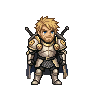
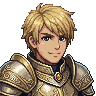
art(portrait): 罗恩重做为头肩特写(修全身照) + v190
- 罗恩原图变成全身照(风格图全身盖过半身文字) → 强制"extreme close-up bust, 头肩特写, 裁到胸口, 非全身"重生成
- 候选库同步更新 loen_0..3
- ASSET_VER 189→190

Claude-Session: https://claude.ai/code/session_01QGRynvBqtept4T7sdccom5

diff --git a/index.html b/index.html
@@ -5,39 +5,39 @@
   <meta name="viewport" content="width=device-width, initial-scale=1.0, maximum-scale=1.0, user-scalable=no, viewport-fit=cover">
   <title>棕色尘埃 2 · Brown Dust 2</title>
   <!-- PWA / 添加到主屏幕（iOS 全屏关键） -->
-  <link rel="manifest" href="manifest.webmanifest?v=189">
+  <link rel="manifest" href="manifest.webmanifest?v=190">
   <meta name="theme-color" content="#1a1422">
   <meta name="mobile-web-app-capable" content="yes">
   <meta name="apple-mobile-web-app-capable" content="yes">
   <meta name="apple-mobile-web-app-status-bar-style" content="black-translucent">
   <meta name="apple-mobile-web-app-title" content="棕色尘埃2">
-  <link rel="apple-touch-icon" href="icons/apple-touch-icon.png?v=189">
-  <link rel="icon" type="image/png" href="icons/icon-192.png?v=189">
-  <link rel="stylesheet" href="css/style.css?v=189">
+  <link rel="apple-touch-icon" href="icons/apple-touch-icon.png?v=190">
+  <link rel="icon" type="image/png" href="icons/icon-192.png?v=190">
+  <link rel="stylesheet" href="css/style.css?v=190">
 </head>
 <body>
   <div id="app">
     <!-- 顶部栏：玩家信息 + 资源 + 系统 -->
     <header id="topbar">
       <button id="topbar-profile" class="profile-chip" title="玩家资料">
-        <span class="pc-avatar"><img src="art/01_splash/lecliss_avatar.png?v=189" alt="" onerror="this.outerHTML='🎖'"></span>
+        <span class="pc-avatar"><img src="art/01_splash/lecliss_avatar.png?v=190" alt="" onerror="this.outerHTML='🎖'"></span>
         <span class="pc-info">
           <span class="pc-name" id="pc-name">指挥官</span>
           <span class="pc-sub">Lv.<span id="pc-lv">1</span> · ⚔<span id="pc-pow">0</span></span>
         </span>
       </button>
       <div class="resources">
-        <div class="res" title="金币"><span class="res-icon"><img class="px-ico-sm" src="art/05_pixellab/ui/icons/coin.png?v=189" alt="金"></span><span id="res-gold">0</span></div>
-        <div class="res" title="宝石"><span class="res-icon"><img class="px-ico-sm" src="art/05_pixellab/ui/icons/gem.png?v=189" alt="钻"></span><span id="res-gem">0</span></div>
-        <div class="res" title="觉醒石"><span class="res-icon"><img class="px-ico-sm" src="art/05_pixellab/ui/icons/awaken.png?v=189" alt="石"></span><span id="res-stone">0</span></div>
-        <div class="res" title="体力"><span class="res-icon"><img class="px-ico-sm" src="art/05_pixellab/ui/icons/stamina.png?v=189" alt="力"></span><span id="res-stam">0</span></div>
+        <div class="res" title="金币"><span class="res-icon"><img class="px-ico-sm" src="art/05_pixellab/ui/icons/coin.png?v=190" alt="金"></span><span id="res-gold">0</span></div>
+        <div class="res" title="宝石"><span class="res-icon"><img class="px-ico-sm" src="art/05_pixellab/ui/icons/gem.png?v=190" alt="钻"></span><span id="res-gem">0</span></div>
+        <div class="res" title="觉醒石"><span class="res-icon"><img class="px-ico-sm" src="art/05_pixellab/ui/icons/awaken.png?v=190" alt="石"></span><span id="res-stone">0</span></div>
+        <div class="res" title="体力"><span class="res-icon"><img class="px-ico-sm" src="art/05_pixellab/ui/icons/stamina.png?v=190" alt="力"></span><span id="res-stam">0</span></div>
       </div>
       <div class="topbar-sys">
-        <button id="btn-notice" class="ghost-btn" title="公告"><img class="px-ico-sys" src="art/05_pixellab/ui/icons/notice.png?v=189" alt="公告"></button>
-        <button id="btn-mail" class="ghost-btn" title="邮件"><span class="dot-wrap"><img class="px-ico-sys" src="art/05_pixellab/ui/icons/mail.png?v=189" alt="邮件"><span id="mail-dot" class="red-dot" style="display:none;"></span></span></button>
-        <button id="btn-settings" class="ghost-btn" title="设置"><img class="px-ico-sys" src="art/05_pixellab/ui/icons/settings.png?v=189" alt="设置"></button>
-        <button id="btn-fullscreen" class="ghost-btn" title="全屏"><img class="px-ico-sys" src="art/05_pixellab/ui/icons/fullscreen.png?v=189" alt="全屏"></button>
-        <button id="btn-mute" class="ghost-btn" title="音效开关"><img class="px-ico-sys" src="art/05_pixellab/ui/icons/sound.png?v=189" alt="音效"></button>
+        <button id="btn-notice" class="ghost-btn" title="公告"><img class="px-ico-sys" src="art/05_pixellab/ui/icons/notice.png?v=190" alt="公告"></button>
+        <button id="btn-mail" class="ghost-btn" title="邮件"><span class="dot-wrap"><img class="px-ico-sys" src="art/05_pixellab/ui/icons/mail.png?v=190" alt="邮件"><span id="mail-dot" class="red-dot" style="display:none;"></span></span></button>
+        <button id="btn-settings" class="ghost-btn" title="设置"><img class="px-ico-sys" src="art/05_pixellab/ui/icons/settings.png?v=190" alt="设置"></button>
+        <button id="btn-fullscreen" class="ghost-btn" title="全屏"><img class="px-ico-sys" src="art/05_pixellab/ui/icons/fullscreen.png?v=190" alt="全屏"></button>
+        <button id="btn-mute" class="ghost-btn" title="音效开关"><img class="px-ico-sys" src="art/05_pixellab/ui/icons/sound.png?v=190" alt="音效"></button>
         <button id="btn-reset" class="ghost-btn" title="重置存档" style="display:none;">↺</button>
       </div>
     </header>
@@ -70,20 +70,20 @@
     </div>
   </div>
 
-  <script>window.ASSET_VER = '189';</script>
-  <script src="js/audio.js?v=189"></script>
-  <script src="js/data.js?v=189"></script>
-  <script src="js/balance.js?v=189"></script>
-  <script src="js/budget.js?v=189"></script>
-  <script src="js/lore.js?v=189"></script>
-  <script src="js/gear.js?v=189"></script>
-  <script src="js/costumes.js?v=189"></script>
-  <script src="js/game.js?v=189"></script>
-  <script src="js/battle.js?v=189"></script>
-  <script src="js/ui.js?v=189"></script>
-  <script src="js/story.js?v=189"></script>
-  <script src="js/comic.js?v=189"></script>
-  <script src="js/world.js?v=189"></script>
-  <script src="js/main.js?v=189"></script>
+  <script>window.ASSET_VER = '190';</script>
+  <script src="js/audio.js?v=190"></script>
+  <script src="js/data.js?v=190"></script>
+  <script src="js/balance.js?v=190"></script>
+  <script src="js/budget.js?v=190"></script>
+  <script src="js/lore.js?v=190"></script>
+  <script src="js/gear.js?v=190"></script>
+  <script src="js/costumes.js?v=190"></script>
+  <script src="js/game.js?v=190"></script>
+  <script src="js/battle.js?v=190"></script>
+  <script src="js/ui.js?v=190"></script>
+  <script src="js/story.js?v=190"></script>
+  <script src="js/comic.js?v=190"></script>
+  <script src="js/world.js?v=190"></script>
+  <script src="js/main.js?v=190"></script>
 </body>
 </html>

diff --git a/game.html b/game.html
@@ -5,14 +5,14 @@
   <meta name="viewport" content="width=device-width, initial-scale=1.0, maximum-scale=1.0, user-scalable=no, viewport-fit=cover">
   <title>棕色尘埃 2 · Brown Dust 2</title>
   <!-- PWA / 添加到主屏幕（iOS 全屏关键） -->
-  <link rel="manifest" href="manifest.webmanifest?v=189">
+  <link rel="manifest" href="manifest.webmanifest?v=190">
   <meta name="theme-color" content="#1a1422">
   <meta name="mobile-web-app-capable" content="yes">
   <meta name="apple-mobile-web-app-capable" content="yes">
   <meta name="apple-mobile-web-app-status-bar-style" content="black-translucent">
   <meta name="apple-mobile-web-app-title" content="棕色尘埃2">
-  <link rel="apple-touch-icon" href="icons/apple-touch-icon.png?v=189">
-  <link rel="icon" type="image/png" href="icons/icon-192.png?v=189">
+  <link rel="apple-touch-icon" href="icons/apple-touch-icon.png?v=190">
+  <link rel="icon" type="image/png" href="icons/icon-192.png?v=190">
   <style>
 /* ============================================================
    棕色尘埃 2 风格 UI — 暗色奇幻风格
@@ -2423,24 +2423,24 @@ button.ac-circle:active { transform: scale(.92); }
     <!-- 顶部栏：玩家信息 + 资源 + 系统 -->
     <header id="topbar">
       <button id="topbar-profile" class="profile-chip" title="玩家资料">
-        <span class="pc-avatar"><img src="art/01_splash/lecliss_avatar.png?v=189" alt="" onerror="this.outerHTML='🎖'"></span>
+        <span class="pc-avatar"><img src="art/01_splash/lecliss_avatar.png?v=190" alt="" onerror="this.outerHTML='🎖'"></span>
         <span class="pc-info">
           <span class="pc-name" id="pc-name">指挥官</span>
           <span class="pc-sub">Lv.<span id="pc-lv">1</span> · ⚔<span id="pc-pow">0</span></span>
         </span>
       </button>
       <div class="resources">
-        <div class="res" title="金币"><span class="res-icon"><img class="px-ico-sm" src="art/05_pixellab/ui/icons/coin.png?v=189" alt="金"></span><span id="res-gold">0</span></div>
-        <div class="res" title="宝石"><span class="res-icon"><img class="px-ico-sm" src="art/05_pixellab/ui/icons/gem.png?v=189" alt="钻"></span><span id="res-gem">0</span></div>
-        <div class="res" title="觉醒石"><span class="res-icon"><img class="px-ico-sm" src="art/05_pixellab/ui/icons/awaken.png?v=189" alt="石"></span><span id="res-stone">0</span></div>
-        <div class="res" title="体力"><span class="res-icon"><img class="px-ico-sm" src="art/05_pixellab/ui/icons/stamina.png?v=189" alt="力"></span><span id="res-stam">0</span></div>
+        <div class="res" title="金币"><span class="res-icon"><img class="px-ico-sm" src="art/05_pixellab/ui/icons/coin.png?v=190" alt="金"></span><span id="res-gold">0</span></div>
+        <div class="res" title="宝石"><span class="res-icon"><img class="px-ico-sm" src="art/05_pixellab/ui/icons/gem.png?v=190" alt="钻"></span><span id="res-gem">0</span></div>
+        <div class="res" title="觉醒石"><span class="res-icon"><img class="px-ico-sm" src="art/05_pixellab/ui/icons/awaken.png?v=190" alt="石"></span><span id="res-stone">0</span></div>
+        <div class="res" title="体力"><span class="res-icon"><img class="px-ico-sm" src="art/05_pixellab/ui/icons/stamina.png?v=190" alt="力"></span><span id="res-stam">0</span></div>
       </div>
       <div class="topbar-sys">
-        <button id="btn-notice" class="ghost-btn" title="公告"><img class="px-ico-sys" src="art/05_pixellab/ui/icons/notice.png?v=189" alt="公告"></button>
-        <button id="btn-mail" class="ghost-btn" title="邮件"><span class="dot-wrap"><img class="px-ico-sys" src="art/05_pixellab/ui/icons/mail.png?v=189" alt="邮件"><span id="mail-dot" class="red-dot" style="display:none;"></span></span></button>
-        <button id="btn-settings" class="ghost-btn" title="设置"><img class="px-ico-sys" src="art/05_pixellab/ui/icons/settings.png?v=189" alt="设置"></button>
-        <button id="btn-fullscreen" class="ghost-btn" title="全屏"><img class="px-ico-sys" src="art/05_pixellab/ui/icons/fullscreen.png?v=189" alt="全屏"></button>
-        <button id="btn-mute" class="ghost-btn" title="音效开关"><img class="px-ico-sys" src="art/05_pixellab/ui/icons/sound.png?v=189" alt="音效"></button>
+        <button id="btn-notice" class="ghost-btn" title="公告"><img class="px-ico-sys" src="art/05_pixellab/ui/icons/notice.png?v=190" alt="公告"></button>
+        <button id="btn-mail" class="ghost-btn" title="邮件"><span class="dot-wrap"><img class="px-ico-sys" src="art/05_pixellab/ui/icons/mail.png?v=190" alt="邮件"><span id="mail-dot" class="red-dot" style="display:none;"></span></span></button>
+        <button id="btn-settings" class="ghost-btn" title="设置"><img class="px-ico-sys" src="art/05_pixellab/ui/icons/settings.png?v=190" alt="设置"></button>
+        <button id="btn-fullscreen" class="ghost-btn" title="全屏"><img class="px-ico-sys" src="art/05_pixellab/ui/icons/fullscreen.png?v=190" alt="全屏"></button>
+        <button id="btn-mute" class="ghost-btn" title="音效开关"><img class="px-ico-sys" src="art/05_pixellab/ui/icons/sound.png?v=190" alt="音效"></button>
         <button id="btn-reset" class="ghost-btn" title="重置存档" style="display:none;">↺</button>
       </div>
     </header>
@@ -2473,7 +2473,7 @@ button.ac-circle:active { transform: scale(.92); }
     </div>
   </div>
 
-  <script>window.ASSET_VER = '189';</script>
+  <script>window.ASSET_VER = '190';</script>
 <script>
 // ============================================================
 //  音频系统（纯 Web Audio 实时合成，无需任何音频素材文件）
